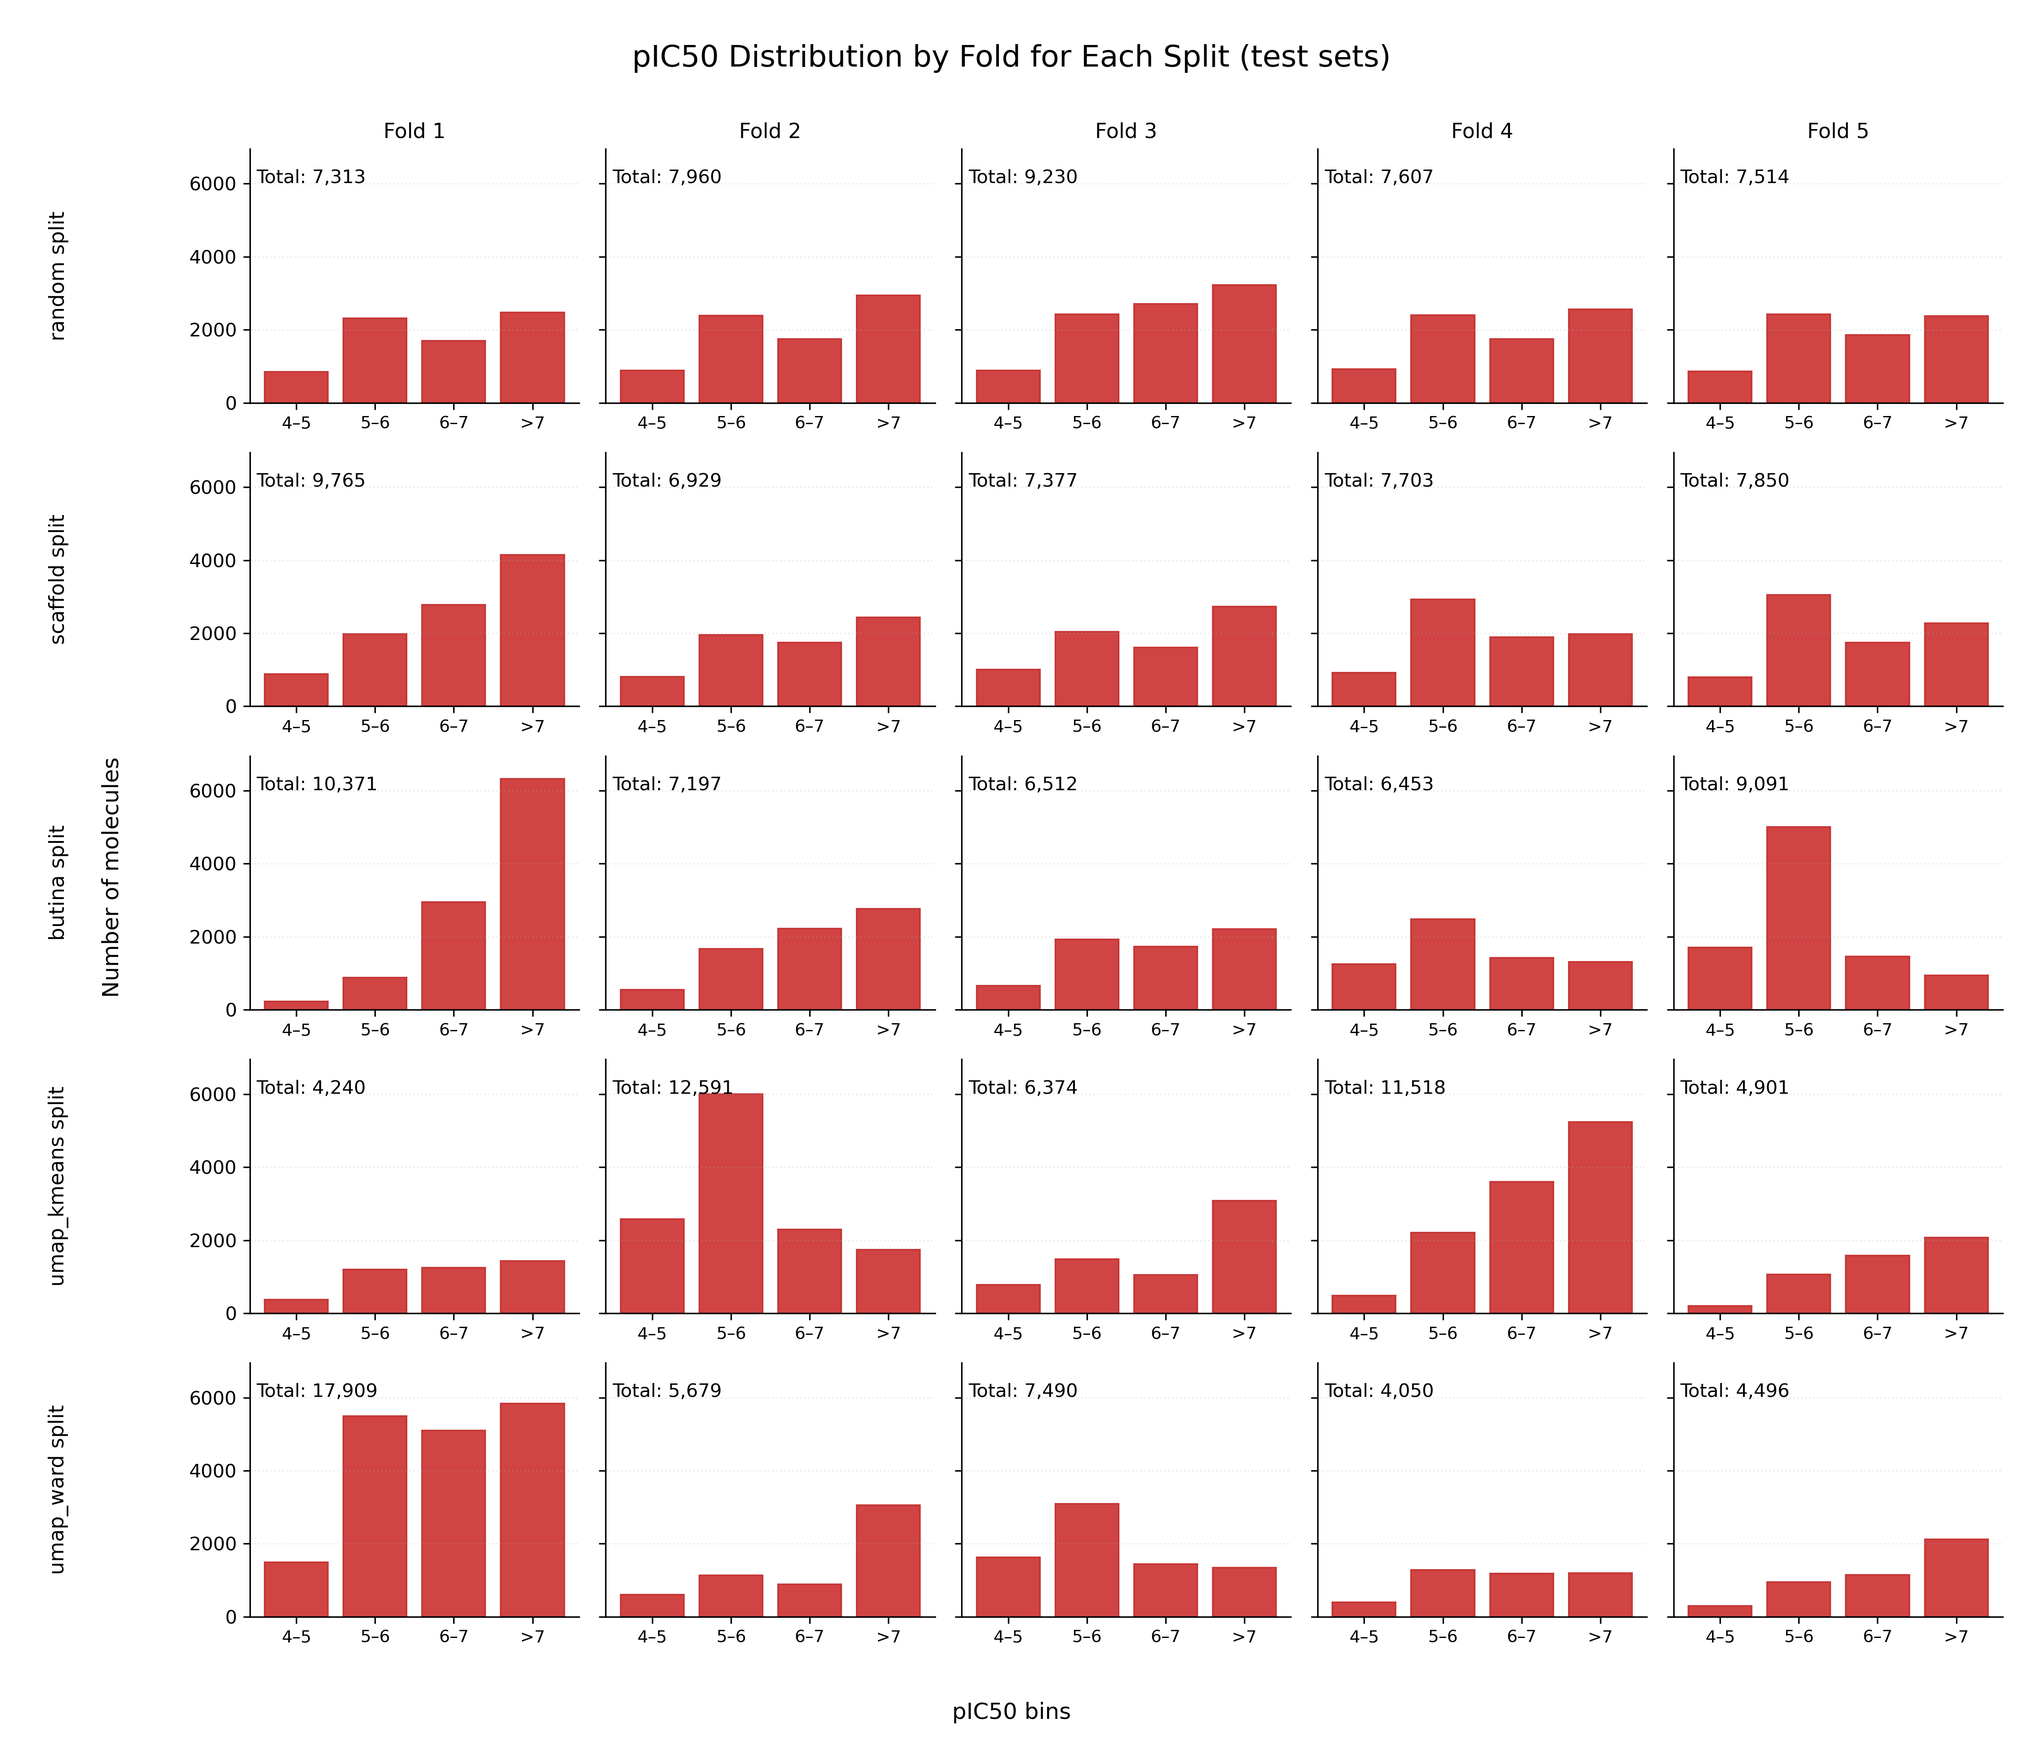
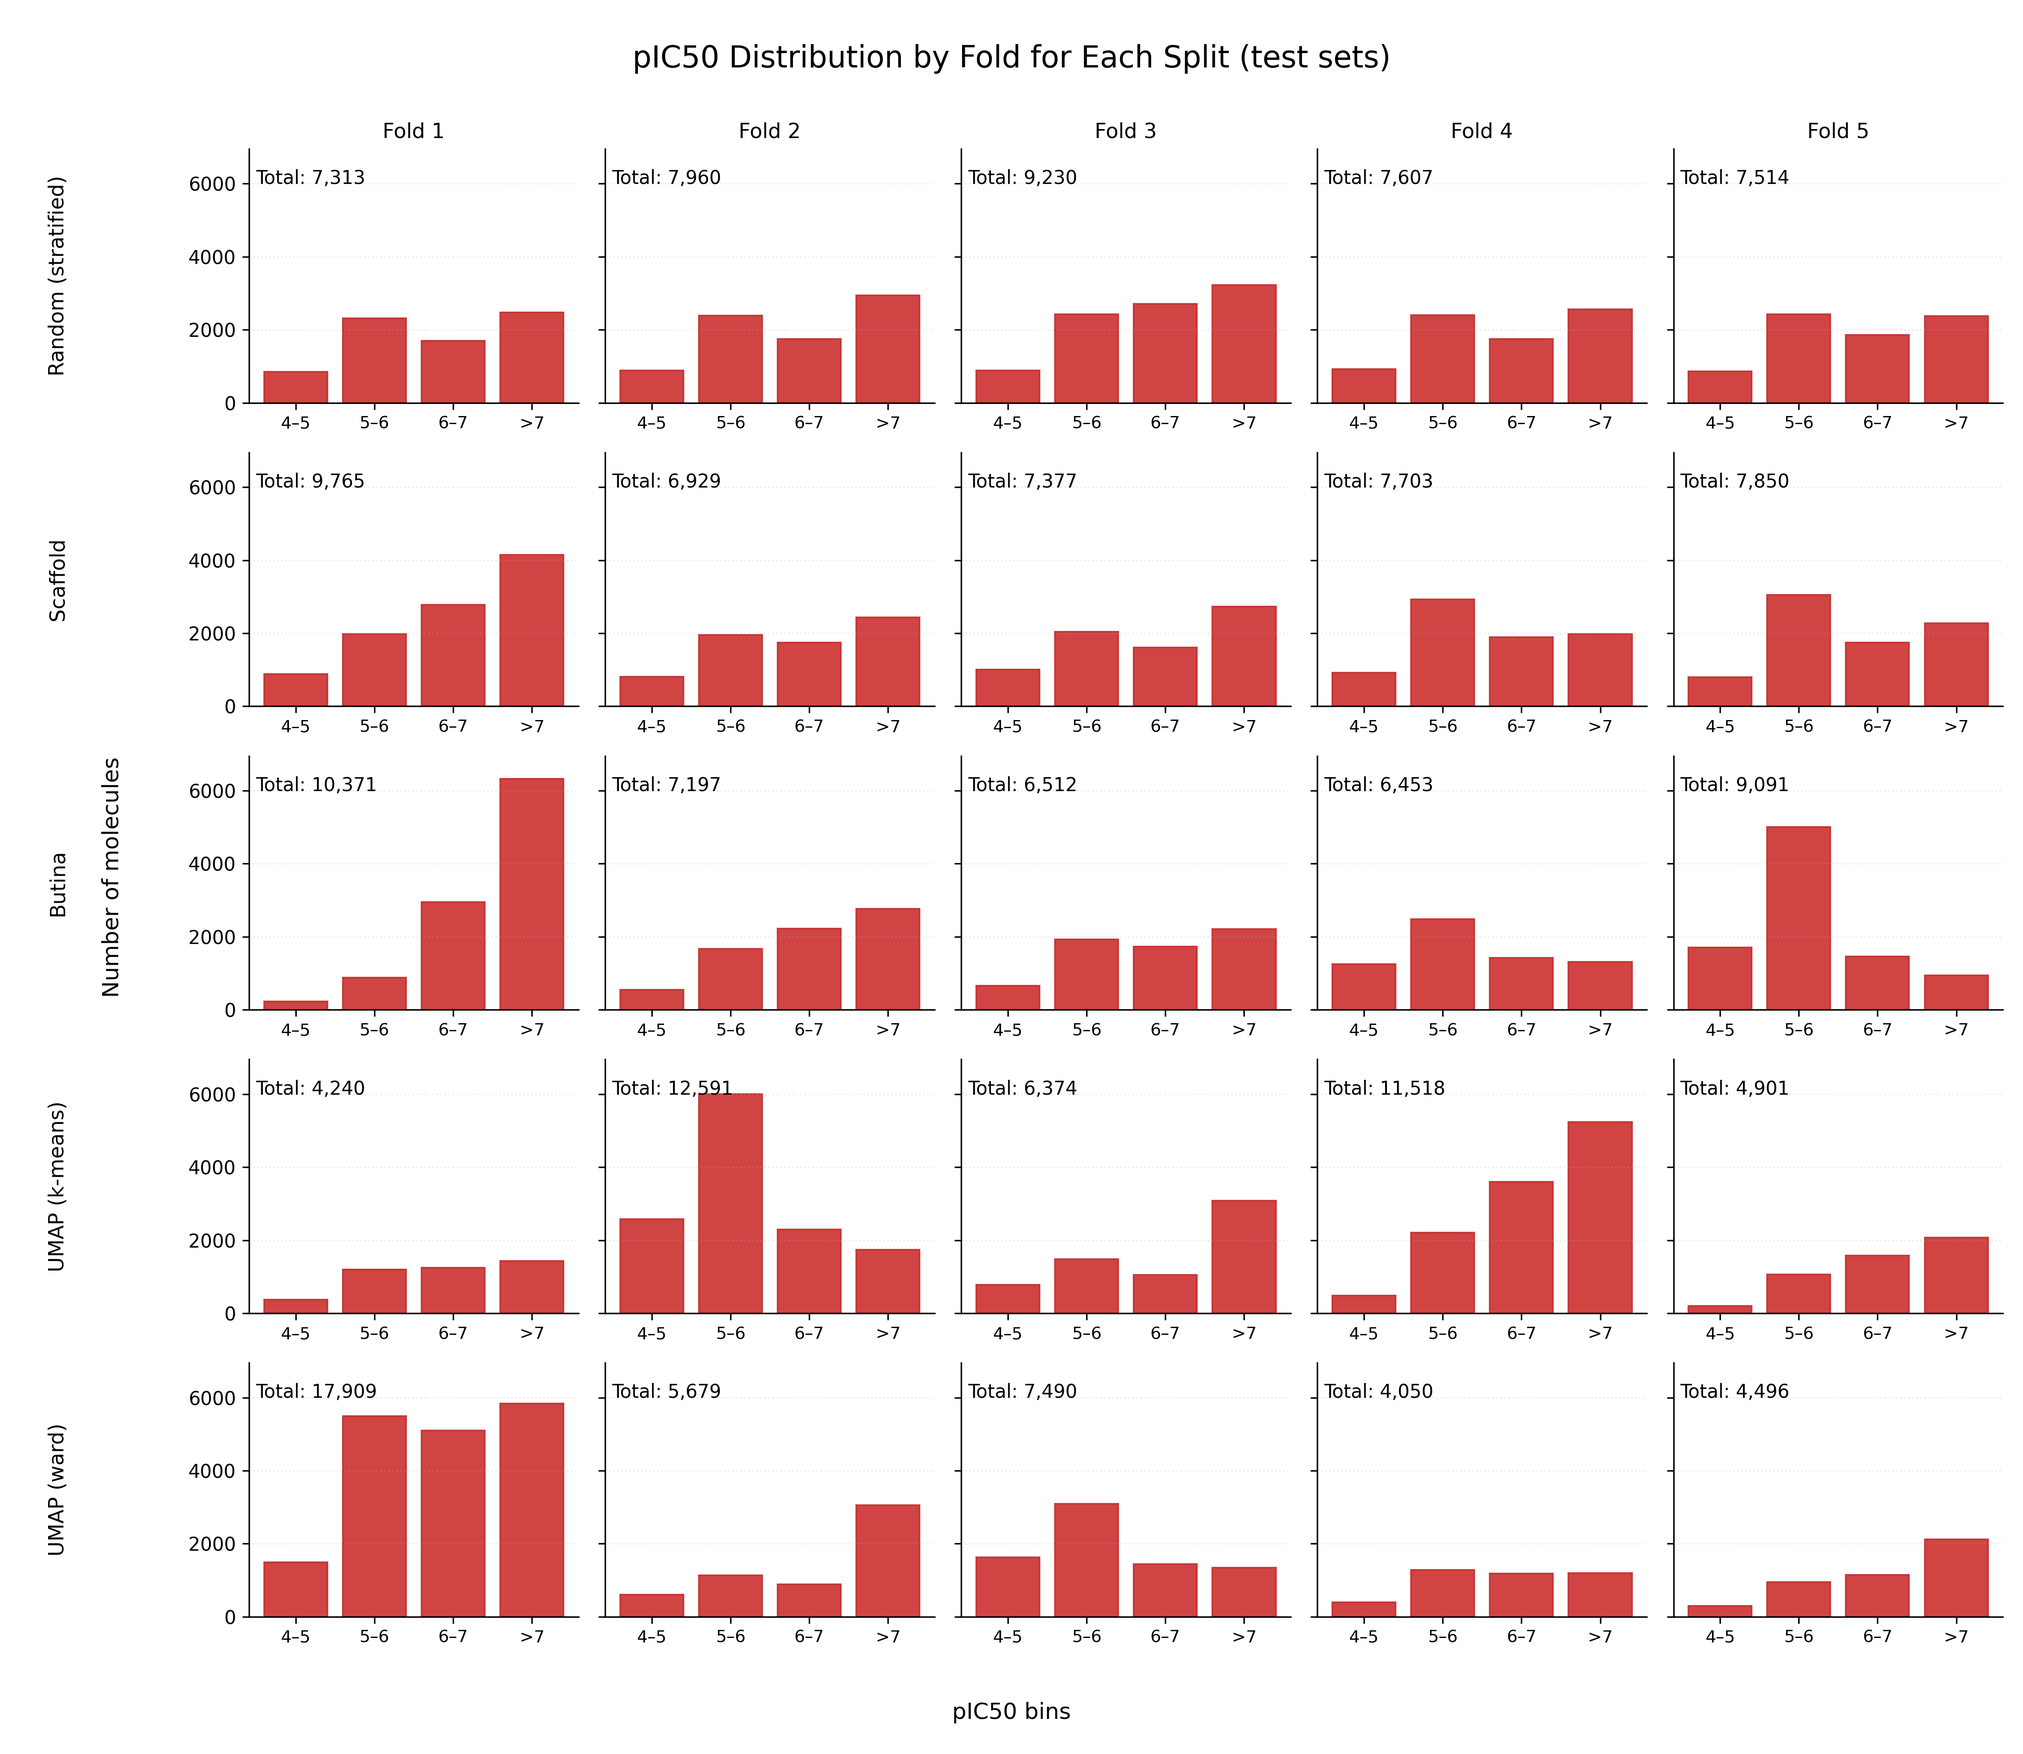
new activity bin barcharts

diff --git a/p1_preprocessing/4 - Data splitting/3 - splits_data_visualization/activity_bins_barchat/activitybins.py b/p1_preprocessing/4 - Data splitting/3 - splits_data_visualization/activity_bins_barchat/activitybins.py
@@ -1,175 +1,192 @@
-# # make_panel_distributions_all_sets.py
-# from pathlib import Path
-# import numpy as np
-# import pandas as pd
-# import matplotlib.pyplot as plt
+'''
+Description: This script creates data bins for each fold using each splitting method.
 
-# # ===== your config =====
-# BASE    = Path("./p1_preprocessing/4 - Data splitting/2 - split_data")
-# METHODS = ["random","scaffold","butina","umap_kmeans","umap_ward"]
-# FOLDS   = [1,2,3,4,5]
-# SUBSETS = ["train", "val", "test"]   # <- all three
-# TARGET  = "pIC50"
-# OUTDIR  = Path("./p1_preprocessing/4 - Data splitting/3 - splits_data_visualization/activity_bins_barchat")
-# OUTDIR.mkdir(parents=True, exist_ok=True)
+Requirements:
+    - Splitting methods completed from 2 - split_data
+'''
 
-# # bins & tick labels (like the paper)
-# BINS   = [4.0, 5.0, 6.0, 7.0, np.inf]
-# XLABEL = ["4–5", "5–6", "6–7", ">7"]
-
-# def find_csv(method: str, fold: int, subset: str) -> Path | None:
-#     """Try common filename patterns; return None if missing."""
-#     candidates = [
-#         f"{method}_fold_{fold}_{subset}.csv",
-#         f"{method}_fold{fold}_{subset}.csv",
-#         f"{method}_fold_{fold}-{subset}.csv",
-#         # just in case someone used 'validation'
-#         f"{method}_fold_{fold}_validation.csv" if subset == "val" else None,
-#         f"{method}_fold{fold}_validation.csv"  if subset == "val" else None,
-#     ]
-#     for name in filter(None, candidates):
-#         p = BASE / method / name
-#         if p.exists():
-#             return p
-#     return None
-
-# def bin_counts(values: pd.Series) -> np.ndarray:
-#     return np.histogram(values.astype(float).values, bins=BINS)[0]
-
-# def make_panel_for_subset(subset: str):
-#     counts_map, totals_map, ymax = {}, {}, 0
-#     for m in METHODS:
-#         for f in FOLDS:
-#             path = find_csv(m, f, subset)
-#             if path is None:
-#                 continue
-#             df = pd.read_csv(path)
-#             cnts = bin_counts(df[TARGET])
-#             counts_map[(m, f)] = cnts
-#             totals_map[(m, f)] = int(len(df))
-#             ymax = max(ymax, cnts.max())
-
-#     n_rows, n_cols = len(METHODS), len(FOLDS)
-#     fig_w, fig_h = 3.0 * n_cols, 2.6 * n_rows
-#     fig, axes = plt.subplots(n_rows, n_cols, figsize=(fig_w, fig_h), sharey=True)
-#     if n_rows == 1:
-#         axes = np.array([axes])
-
-#     bar_color = "#d14444"   # red
-#     edge_color = "#c73838"
-
-#     for r, method in enumerate(METHODS):
-#         for c, fold in enumerate(FOLDS, start=1):
-#             ax = axes[r, c-1]
-#             key = (method, fold)
-#             if key not in counts_map:
-#                 ax.axis("off")
-#                 continue
-
-#             cnts = counts_map[key]
-#             ax.bar(range(len(cnts)), cnts, width=0.8, color=bar_color, edgecolor=edge_color)
-
-#             ax.set_xticks(range(len(XLABEL)))
-#             ax.set_xticklabels(XLABEL, fontsize=9)
-#             ax.set_ylim(0, ymax * 1.1)
-#             ax.grid(axis="y", alpha=0.25, linestyle=":")
-
-#             for spine in ("top", "right"):
-#                 ax.spines[spine].set_visible(False)
-
-#             if r == 0:
-#                 ax.set_title(f"Fold {fold}", fontsize=11, pad=6)
-#             if c == 1:
-#                 ax.text(-0.55, 0.5, f"{method} split", rotation=90, va="center", ha="right",
-#                         transform=ax.transAxes, fontsize=11)
-
-#             ax.text(0.02, 0.92, f"Total: {totals_map[key]:,}", transform=ax.transAxes,
-#                     ha="left", va="top", fontsize=10)
-
-#     fig.suptitle(f"{TARGET} Distribution by Fold for Each Split ({subset} sets)", fontsize=16, y=0.975)
-#     fig.text(0.5, 0.02, f"{TARGET} bins", ha="center", fontsize=12)
-#     fig.text(0.05, 0.5, "Number of molecules", va="center", rotation=90, fontsize=12)
-
-#     fig.tight_layout(rect=[0.03, 0.05, 1, 0.97])
-#     outpng = OUTDIR / f"pIC50_distribution_by_split_{subset}.png"
-#     fig.savefig(outpng, dpi=300)
-#     plt.close(fig)
-#     print(f"Saved: {outpng}")
-
-# if __name__ == "__main__":
-#     for subset in SUBSETS:
-#         make_panel_for_subset(subset)
-
-# Sexual activity bins (comment out when using the top)
 from pathlib import Path
 import numpy as np
 import pandas as pd
 import matplotlib.pyplot as plt
 
-# ---- paths ----
-SEXUAL_CSV = Path("p2_models/0 - input_data/sexual_test.csv")
-OUT_DIR    = Path("p1_preprocessing/4 - Data splitting/3 - splits_data_visualization/activity_bins_barchat/sexual_pIC50_distribution.png")
-OUT_DIR.mkdir(parents=True, exist_ok=True)
+#  onfig
+BASE    = Path("./p1_preprocessing/4 - Data splitting/2 - split_data")
+METHODS = ["random","scaffold","butina","umap_kmeans","umap_ward"]
+FOLDS   = [1,2,3,4,5]
+SUBSETS = ["train", "val", "test"]
+TARGET  = "pIC50"
+OUTDIR  = Path("./p1_preprocessing/4 - Data splitting/3 - splits_data_visualization/activity_bins_barchat")
+OUTDIR.mkdir(parents=True, exist_ok=True)
 
-# ---- config ----
-TARGET  = "pIC50"                     # case-insensitive match
-BINS    = [4.0, 5.0, 6.0, 7.0, np.inf]
-XLABELS = ["4–5", "5–6", "6–7", ">7"]
-BAR_COLOR  = "#e32f26"                # red
-EDGE_COLOR = "#a21e18"
+DISPLAY_NAME = {
+    "random": "Random (stratified)",
+    "scaffold": "Scaffold",
+    "butina": "Butina",
+    "umap_kmeans": "UMAP (k-means)",
+    "umap_ward": "UMAP (ward)",
+}
 
-# ---- load ----
-df = pd.read_csv(SEXUAL_CSV)
+# bins & tick labels (like the paper)
+BINS   = [4.0, 5.0, 6.0, 7.0, np.inf]
+XLABEL = ["4–5", "5–6", "6–7", ">7"]
 
-# case-insensitive column lookup for pIC50
-cols_lc = {c.lower(): c for c in df.columns}
-if TARGET.lower() not in cols_lc:
-    raise ValueError(f"Column '{TARGET}' not found in {SEXUAL_CSV}. Got: {list(df.columns)}")
-col = cols_lc[TARGET.lower()]
+def find_csv(method: str, fold: int, subset: str) -> Path | None:
+    """Try common filename patterns; return None if missing."""
+    candidates = [
+        f"{method}_fold_{fold}_{subset}.csv",
+        f"{method}_fold{fold}_{subset}.csv",
+        f"{method}_fold_{fold}-{subset}.csv",
+        # just in case someone used 'validation'
+        f"{method}_fold_{fold}_validation.csv" if subset == "val" else None,
+        f"{method}_fold{fold}_validation.csv"  if subset == "val" else None,
+    ]
+    for name in filter(None, candidates):
+        p = BASE / method / name
+        if p.exists():
+            return p
+    return None
 
-y = pd.to_numeric(df[col], errors="coerce").dropna().to_numpy()
-N = len(y)
-if N == 0:
-    raise ValueError(f"No numeric {TARGET} values in {SEXUAL_CSV}")
+def bin_counts(values: pd.Series) -> np.ndarray:
+    return np.histogram(values.astype(float).values, bins=BINS)[0]
 
-# ---- bin counts ----
-counts, edges = np.histogram(y, bins=BINS)
-props = counts / counts.sum()
+def make_panel_for_subset(subset: str):
+    counts_map, totals_map, ymax = {}, {}, 0
+    for m in METHODS:
+        for f in FOLDS:
+            path = find_csv(m, f, subset)
+            if path is None:
+                continue
+            df = pd.read_csv(path)
+            cnts = bin_counts(df[TARGET])
+            counts_map[(m, f)] = cnts
+            totals_map[(m, f)] = int(len(df))
+            ymax = max(ymax, cnts.max())
 
-# save counts table
-counts_df = pd.DataFrame({
-    "bin_label": XLABELS,
-    "lower": edges[:-1],
-    "upper": edges[1:],
-    "count": counts,
-    "proportion": props
-})
-counts_csv = OUT_DIR / "sexual_pIC50_bin_counts.csv"
-counts_df.to_csv(counts_csv, index=False)
+    n_rows, n_cols = len(METHODS), len(FOLDS)
+    fig_w, fig_h = 3.0 * n_cols, 2.6 * n_rows
+    fig, axes = plt.subplots(n_rows, n_cols, figsize=(fig_w, fig_h), sharey=True)
+    if n_rows == 1:
+        axes = np.array([axes])
 
-# ---- plot ----
-x = np.arange(len(counts))
-fig, ax = plt.subplots(figsize=(7.5, 4.75))
-ax.bar(x, counts, width=0.8, color=BAR_COLOR, edgecolor=EDGE_COLOR)
+    bar_color = "#d14444"   # red
+    edge_color = "#c73838"
 
-ax.set_xticks(x)
-ax.set_xticklabels(XLABELS, fontsize=10)
-ax.set_ylabel("Number of molecules", fontsize=11)
-ax.set_xlabel("pIC50 bins", fontsize=11)
-ax.set_title(f"pIC50 Distribution — Sexual test set (N = {N:,})", fontsize=16, pad=12)
-ax.grid(axis="y", alpha=0.25, linestyle=":")
+    for r, method in enumerate(METHODS):
+        for c, fold in enumerate(FOLDS, start=1):
+            ax = axes[r, c-1]
+            key = (method, fold)
+            if key not in counts_map:
+                ax.axis("off")
+                continue
 
-# annotate counts above bars
-for xi, c in zip(x, counts):
-    ax.text(xi, c + max(counts)*0.02, f"{c:,}", ha="center", va="bottom", fontsize=10)
+            cnts = counts_map[key]
+            ax.bar(range(len(cnts)), cnts, width=0.8, color=bar_color, edgecolor=edge_color)
 
-for spine in ("top", "right"):
-    ax.spines[spine].set_visible(False)
+            ax.set_xticks(range(len(XLABEL)))
+            ax.set_xticklabels(XLABEL, fontsize=9)
+            ax.set_ylim(0, ymax * 1.1)
+            ax.grid(axis="y", alpha=0.25, linestyle=":")
 
-fig.tight_layout()
-out_png = OUT_DIR / "sexual_pIC50_distribution.png"
-fig.savefig(out_png, dpi=300)
-plt.close(fig)
+            for spine in ("top", "right"):
+                ax.spines[spine].set_visible(False)
 
-print("Saved figure:", out_png)
-print("Saved counts:", counts_csv)
+            if r == 0:
+                ax.set_title(f"Fold {fold}", fontsize=11, pad=6)
+            if c == 1:
+                ax.text(-0.55, 0.5, DISPLAY_NAME.get(method, method), rotation=90, va="center", ha="right",
+                    transform=ax.transAxes, fontsize=11)
+
+            ax.text(0.02, 0.92, f"Total: {totals_map[key]:,}", transform=ax.transAxes,
+                    ha="left", va="top", fontsize=10)
+
+    fig.suptitle(f"{TARGET} Distribution by Fold for Each Split ({subset} sets)", fontsize=16, y=0.975)
+    fig.text(0.5, 0.02, f"{TARGET} bins", ha="center", fontsize=12)
+    fig.text(0.05, 0.5, "Number of molecules", va="center", rotation=90, fontsize=12)
+
+    fig.tight_layout(rect=[0.03, 0.05, 1, 0.97])
+    outpng = OUTDIR / f"pIC50_distribution_by_split_{subset}.png"
+    fig.savefig(outpng, dpi=300)
+    plt.close(fig)
+    print(f"Saved: {outpng}")
+
+if __name__ == "__main__":
+    for subset in SUBSETS:
+        make_panel_for_subset(subset)
+
+'''Sexual activity bin graph
+comment out when not using'''
+
+# # Sexual activity bins (comment out when using the top)
+# from pathlib import Path
+# import numpy as np
+# import pandas as pd
+# import matplotlib.pyplot as plt
+
+# # ---- paths ----
+# SEXUAL_CSV = Path("p2_models/0 - input_data/sexual_test.csv")
+# OUT_DIR    = Path("p1_preprocessing/4 - Data splitting/3 - splits_data_visualization/activity_bins_barchat/sexual_pIC50_distribution.png")
+# OUT_DIR.mkdir(parents=True, exist_ok=True)
+
+# # ---- config ----
+# TARGET  = "pIC50"                     # case-insensitive match
+# BINS    = [4.0, 5.0, 6.0, 7.0, np.inf]
+# XLABELS = ["4–5", "5–6", "6–7", ">7"]
+# BAR_COLOR  = "#e32f26"                # red
+# EDGE_COLOR = "#a21e18"
+
+# # ---- load ----
+# df = pd.read_csv(SEXUAL_CSV)
+
+# # case-insensitive column lookup for pIC50
+# cols_lc = {c.lower(): c for c in df.columns}
+# if TARGET.lower() not in cols_lc:
+#     raise ValueError(f"Column '{TARGET}' not found in {SEXUAL_CSV}. Got: {list(df.columns)}")
+# col = cols_lc[TARGET.lower()]
+
+# y = pd.to_numeric(df[col], errors="coerce").dropna().to_numpy()
+# N = len(y)
+# if N == 0:
+#     raise ValueError(f"No numeric {TARGET} values in {SEXUAL_CSV}")
+
+# # ---- bin counts ----
+# counts, edges = np.histogram(y, bins=BINS)
+# props = counts / counts.sum()
+
+# # save counts table
+# counts_df = pd.DataFrame({
+#     "bin_label": XLABELS,
+#     "lower": edges[:-1],
+#     "upper": edges[1:],
+#     "count": counts,
+#     "proportion": props
+# })
+# counts_csv = OUT_DIR / "sexual_pIC50_bin_counts.csv"
+# counts_df.to_csv(counts_csv, index=False)
+
+# # ---- plot ----
+# x = np.arange(len(counts))
+# fig, ax = plt.subplots(figsize=(7.5, 4.75))
+# ax.bar(x, counts, width=0.8, color=BAR_COLOR, edgecolor=EDGE_COLOR)
+
+# ax.set_xticks(x)
+# ax.set_xticklabels(XLABELS, fontsize=10)
+# ax.set_ylabel("Number of molecules", fontsize=11)
+# ax.set_xlabel("pIC50 bins", fontsize=11)
+# ax.set_title(f"pIC50 Distribution — Sexual test set (N = {N:,})", fontsize=16, pad=12)
+# ax.grid(axis="y", alpha=0.25, linestyle=":")
+
+# # annotate counts above bars
+# for xi, c in zip(x, counts):
+#     ax.text(xi, c + max(counts)*0.02, f"{c:,}", ha="center", va="bottom", fontsize=10)
+
+# for spine in ("top", "right"):
+#     ax.spines[spine].set_visible(False)
+
+# fig.tight_layout()
+# out_png = OUT_DIR / "sexual_pIC50_distribution.png"
+# fig.savefig(out_png, dpi=300)
+# plt.close(fig)
+
+# print("Saved figure:", out_png)
+# print("Saved counts:", counts_csv)
